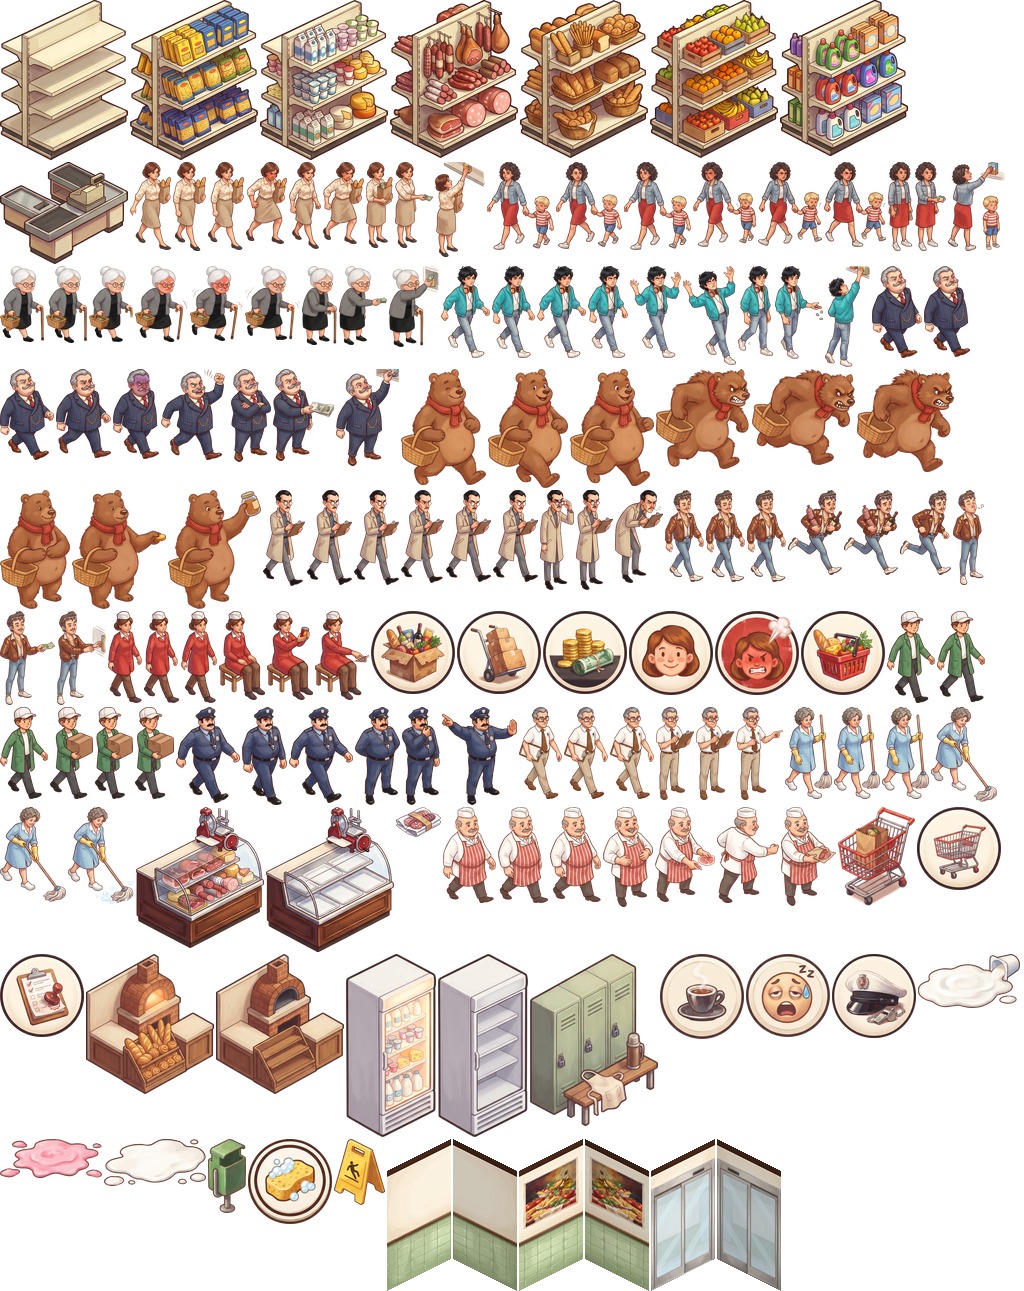
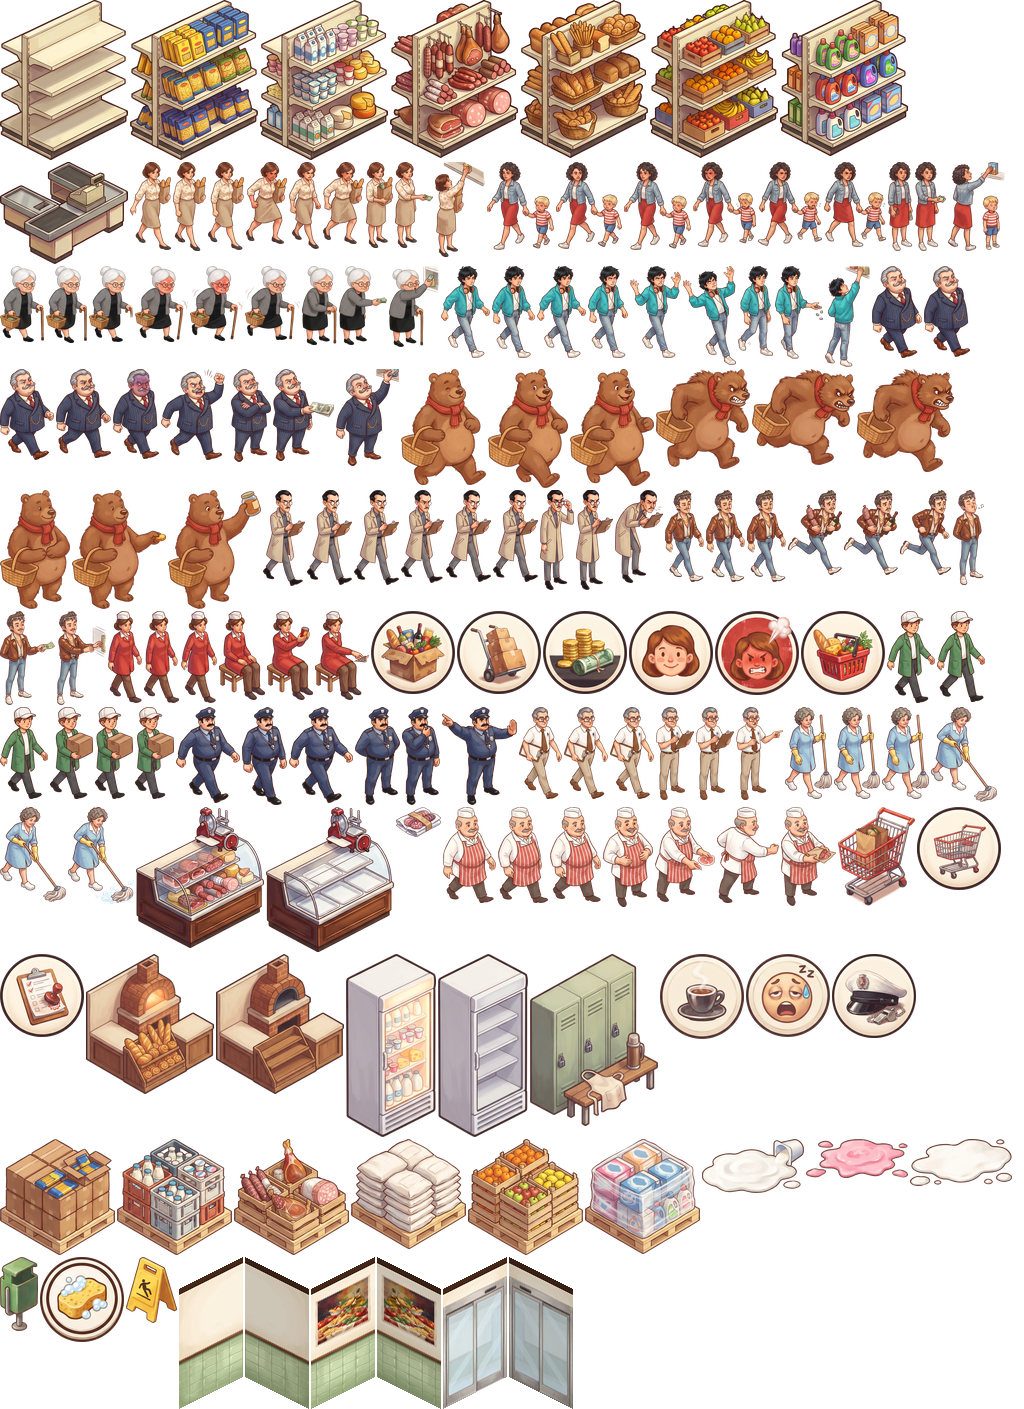
feat: painted warehouse pallets replace the test crates

diff --git a/tests/assets.test.ts b/tests/assets.test.ts
@@ -8,7 +8,7 @@ const kit = JSON.parse(readFileSync(new URL('../public/assets/kit.json', import.
 const has = (frames: string[]) => { for (const f of frames) assert.ok(kit.frames[f], `missing frame ${f}`); };
 
 test('every drawable has a frame: furniture', () => {
-    has([...WALL_FRAMES, ...ICON_FRAMES, ...SPILL_FRAMES, SPRITES.cestino, SPRITES.carrello, SPRITES.bancone, SPRITES.banconeVuoto, SPRITES.forno, SPRITES.fornoVuoto, SPRITES.frigo, SPRITES.frigoVuoto, SPRITES.armadietti, SPRITES.cassa, SPRITES.scaffale, ...CATEGORIES.map((c) => SPRITES.shelf(c))]);
+    has([...WALL_FRAMES, ...ICON_FRAMES, ...SPILL_FRAMES, SPRITES.cestino, SPRITES.carrello, SPRITES.bancone, SPRITES.banconeVuoto, SPRITES.forno, SPRITES.fornoVuoto, SPRITES.frigo, SPRITES.frigoVuoto, SPRITES.armadietti, SPRITES.cassa, SPRITES.scaffale, ...CATEGORIES.map((c) => SPRITES.shelf(c)), ...CATEGORIES.map((c) => SPRITES.stock(c))]);
 });
 
 test('every drawable has a frame: people', () => {

diff --git a/src/render/draw.ts b/src/render/draw.ts
@@ -205,7 +205,9 @@ export function drawThings(g: G, over: G, s: GameState, put: Put = noPut) {
             g.fillEllipse(f.x, f.y, TILE_W * 0.4, TILE_H * 0.4);
         } })),
         ...s.customers.map((c) => ({ d: c.x + c.y + 0.01, draw: (z: number) => drawCustomer(g, over, s, c, put, z) })),
-        ...crates(s).map((c) => ({ d: c.x + c.y - 0.01, draw: () => {
+        ...crates(s).map((c) => ({ d: c.x + c.y - 0.01, draw: (z: number) => {
+            const p = gridToIso(c.x, c.y);
+            if (put(SPRITES.stock(c.cat), p.x, p.y + TILE_H, z)) return; // a pallet of that goods
             box(g, c.x, c.y, c.h, CRATE, 0.6);
             box(g, c.x, c.y, c.h + 2, CATEGORY_COLOR[c.cat], 0.3);
         } })),

diff --git a/src/render/sprites.ts b/src/render/sprites.ts
@@ -15,6 +15,8 @@ export const SPRITES = {
     frigo: 'frigo',
     frigoVuoto: 'frigo_vuoto',
     shelf: (c: Category) => `scaffale_${c}`,
+    /** Warehouse pallet of a category (milestone 21). */
+    stock: (c: Category) => `merce_${c}`,
 };
 
 /** Every character frame personFrame() can return (tests/assets.test.ts checks they exist). */

diff --git a/tools/kit.py b/tools/kit.py
@@ -33,6 +33,7 @@ SHEETS = [
     ('forno.jpg', 2, 2, ('w', 1.0), ['forno', 'forno_vuoto', ('frigo', 0.7), ('frigo_vuoto', 0.7)]),
     ('spogliatoio.jpg', 3, 1, ('w', 0.66), [('armadietti', 1.0), 'icona_pausa', 'icona_stanco']),
     ('beccato.jpg', 1, 1, ('w', 0.66), ['icona_beccato']),
+    ('magazzino.jpg', 3, 2, ('w', 0.9), ['merce_Pasta', 'merce_Latticini', 'merce_Salumi', 'merce_Pane', 'merce_Frutta', 'merce_Detersivi']),
     ('sporco.jpg', 3, 2, ('w', 0.8), ['macchia_0', 'macchia_1', 'macchia_2', ('cestino', 0.3), ('icona_pulisci', 0.66), ('cartello_bagnato', 0.4)]),
 ]
 

diff --git a/docs/STATE.md b/docs/STATE.md
@@ -12,15 +12,15 @@ development (scaffold completato)
 
 ## Current milestone
 
-[21 — Interfaccia facile](milestones/21-interfaccia-facile.md) (implementato, in attesa di playtest; in corso: pressione lunga per spostare/ruotare/cancellare, modelli merce del magazzino). Poi 21b atmosfera, 22 livelli 4–7. 20 in attesa di playtest. 07–19 in attesa di playtest.
+[21 — Interfaccia facile](milestones/21-interfaccia-facile.md) (implementato con pressione lunga e bancali del magazzino, in attesa di playtest). Poi 21b atmosfera, 22 livelli 4–7. 20 in attesa di playtest. 07–19 in attesa di playtest.
 
 ## Last action
 
-Milestone 21: HUD a una riga con barre obiettivo, barra in basso a gruppi con icone e prezzi, guida del livello 1 con Pina e freccia, "Novità" una volta sola, canvas a devicePixelRatio. `npm test` 115/115, browser 16/16. Prima: Confronto con Theme Hospital: punti 1, 6, 7, 8 (schermo pieno, testo nitido, Pina consigliera, icone) nel milestone 21; nuovo milestone 21b atmosfera (esterno, decorazioni, muri leggibili); folla nel backlog. Prima: Milestone 20: campagna (`src/sim/levels.ts`), livelli 1–3 a negozi prestabiliti con sblocchi nella sim, menu Campagna/Negozio libero, progressi salvati, camera sulle stanze. `npm test` 112/112, browser 14/14. Prima: Milestone planning: campagna a negozi prestabiliti (ADR-0003) → milestone 20 (sistema livelli + livelli 1–3), 21 (interfaccia facile), 22 (livelli 4–7); ordine e scelte confermati dall'utente (negozi inventati, stanze fisse, Negozio libero dopo il 3). Prima: Milestone 19: ruoli guardia (becca i furbetti vicino alla cassa) e capo reparto (un tocco ogni 1,5 s: conti, macchie, scaffali, carrelli); fogli Gemini `guardia.jpg`, `capo.jpg`. Bot di bilanciamento a 8 semi: obiettivi livello 1 → €1500 / 60% / 270 serviti. `npm test` 104/104, browser 13/13. Prima: Milestone 18: energia dello staff, stanza Spogliatoio con Armadietti, pause una per ruolo, stanchi lenti senza spogliatoio; foglio Gemini `spogliatoio.jpg`. Obiettivo soldi 3500→2800. `npm test` 97/97, browser 13/13. Prima: Milestone 17: stanza Panetteria col forno (il banconiere sforna il pane a infornate, profumo che attira clienti), frigo per i Latticini; foglio Gemini `forno.jpg` 2×2. Pane 5 €. `npm test` 89/89, browser 13/13. Prima: Milestone planning: 17 forno e frigo, 18 spogliatoio e stanchezza, 19 guardia e capo reparto (ordine confermato dall'utente). Prima: Milestone 16: audio tutto sintetizzato (Web Audio + voce del telefono), muzak, effetti, annunci comici, tasto Audio. `npm test` 84/84, browser 13/13. Prima: Milestone 15: cliente furbetto (salta la fila o scappa senza pagare), tocco 👮 per beccarlo (paga, +rep), toast "Beccato!". Fogli Gemini `furbetto.jpg` 3×3 e `beccato.jpg`. `npm test` 80/80, browser 12/12. Prima: Milestone 14: carrelli abbandonati (il magazziniere li porta via, tocco 🛒), ispezione sanitaria al giorno 3 (multa per macchia o bonus). Obiettivo soldi livello 1 → €3500. `npm test` 74/74, browser 12/12. Prima: Milestone 13: stanza banco salumi, bancone con affettatrice, banconiere (quarto ruolo) con la sua fila; Salumi solo al banco. Fogli Gemini `bancone.jpg`, `banconiere.jpg`. `npm test` 69/69, browser 12/12. Prima: Milestone 12: macchie di yogurt (`src/sim/dirt.ts`), cestino, addetto pulizie (terzo ruolo), icona spugna da toccare; fogli Gemini `pulizie.jpg` e `sporco.jpg`. `npm test` 64/64, browser 12/12. Prima: Milestone planning (11 salvataggio e menu, 12 sporco e pulizie, 13 banco salumi, confermati dall'utente). Milestone 11: `src/sim/save.ts`, salvataggio automatico in localStorage, menu iniziale Continua/Nuova partita, briefing con gli obiettivi; `?manual&save` per i test browser. `npm test` 57/57, browser 12/12.
+Pressione lunga sugli arredi (✋ sposta, 🔄 gira, 🗑 togli; comando `move`), bancali dipinti in magazzino (`magazzino.jpg`). `npm test` 118/118, browser 17/17. Prima: Milestone 21: HUD a una riga con barre obiettivo, barra in basso a gruppi con icone e prezzi, guida del livello 1 con Pina e freccia, "Novità" una volta sola, canvas a devicePixelRatio. `npm test` 115/115, browser 16/16. Prima: Confronto con Theme Hospital: punti 1, 6, 7, 8 (schermo pieno, testo nitido, Pina consigliera, icone) nel milestone 21; nuovo milestone 21b atmosfera (esterno, decorazioni, muri leggibili); folla nel backlog. Prima: Milestone 20: campagna (`src/sim/levels.ts`), livelli 1–3 a negozi prestabiliti con sblocchi nella sim, menu Campagna/Negozio libero, progressi salvati, camera sulle stanze. `npm test` 112/112, browser 14/14. Prima: Milestone planning: campagna a negozi prestabiliti (ADR-0003) → milestone 20 (sistema livelli + livelli 1–3), 21 (interfaccia facile), 22 (livelli 4–7); ordine e scelte confermati dall'utente (negozi inventati, stanze fisse, Negozio libero dopo il 3). Prima: Milestone 19: ruoli guardia (becca i furbetti vicino alla cassa) e capo reparto (un tocco ogni 1,5 s: conti, macchie, scaffali, carrelli); fogli Gemini `guardia.jpg`, `capo.jpg`. Bot di bilanciamento a 8 semi: obiettivi livello 1 → €1500 / 60% / 270 serviti. `npm test` 104/104, browser 13/13. Prima: Milestone 18: energia dello staff, stanza Spogliatoio con Armadietti, pause una per ruolo, stanchi lenti senza spogliatoio; foglio Gemini `spogliatoio.jpg`. Obiettivo soldi 3500→2800. `npm test` 97/97, browser 13/13. Prima: Milestone 17: stanza Panetteria col forno (il banconiere sforna il pane a infornate, profumo che attira clienti), frigo per i Latticini; foglio Gemini `forno.jpg` 2×2. Pane 5 €. `npm test` 89/89, browser 13/13. Prima: Milestone planning: 17 forno e frigo, 18 spogliatoio e stanchezza, 19 guardia e capo reparto (ordine confermato dall'utente). Prima: Milestone 16: audio tutto sintetizzato (Web Audio + voce del telefono), muzak, effetti, annunci comici, tasto Audio. `npm test` 84/84, browser 13/13. Prima: Milestone 15: cliente furbetto (salta la fila o scappa senza pagare), tocco 👮 per beccarlo (paga, +rep), toast "Beccato!". Fogli Gemini `furbetto.jpg` 3×3 e `beccato.jpg`. `npm test` 80/80, browser 12/12. Prima: Milestone 14: carrelli abbandonati (il magazziniere li porta via, tocco 🛒), ispezione sanitaria al giorno 3 (multa per macchia o bonus). Obiettivo soldi livello 1 → €3500. `npm test` 74/74, browser 12/12. Prima: Milestone 13: stanza banco salumi, bancone con affettatrice, banconiere (quarto ruolo) con la sua fila; Salumi solo al banco. Fogli Gemini `bancone.jpg`, `banconiere.jpg`. `npm test` 69/69, browser 12/12. Prima: Milestone 12: macchie di yogurt (`src/sim/dirt.ts`), cestino, addetto pulizie (terzo ruolo), icona spugna da toccare; fogli Gemini `pulizie.jpg` e `sporco.jpg`. `npm test` 64/64, browser 12/12. Prima: Milestone planning (11 salvataggio e menu, 12 sporco e pulizie, 13 banco salumi, confermati dall'utente). Milestone 11: `src/sim/save.ts`, salvataggio automatico in localStorage, menu iniziale Continua/Nuova partita, briefing con gli obiettivi; `?manual&save` per i test browser. `npm test` 57/57, browser 12/12.
 
 ## Next step
 
-Pressione lunga sugli oggetti (sposta/ruota/cancella) e modelli merce del magazzino (richieste utente 2026-11-27). Poi playtest 20/21, 21b, 22.
+Playtest dell'utente di 20 e 21. Poi 21b (atmosfera), 22.
 
 ## Blockers
 

diff --git a/docs/milestones/21-interfaccia-facile.md b/docs/milestones/21-interfaccia-facile.md
@@ -63,3 +63,4 @@ L'utente fa giocare il livello 1 a qualcuno che non l'ha mai visto: segue le fre
   - Testo nitido: canvas a `devicePixelRatio` (max 3) con `zoom 1/DPR` (`src/game/dpr.ts`, `main.ts`); la camera dell'HUD zooma di DPR, quindi il layout resta in px CSS.
   - Hook nuovi per i test: `hudButtons()`, `hudText()`.
   - Pressione lunga (450 ms, senza strumento) su un oggetto: `Game.edit`, cella evidenziata in giallo; comando sim `move` (check = piazzamento gratis senza l'oggetto). Novità 'edit' la prima volta che c'è un arredo.
+  - Magazzino (richiesta utente 2026-11-27): i cubi colorati di prova sono diventati bancali dipinti, uno per categoria (`art/sheets/magazzino.jpg`, Gemini chat nuova, frame `merce_<Categoria>`).
